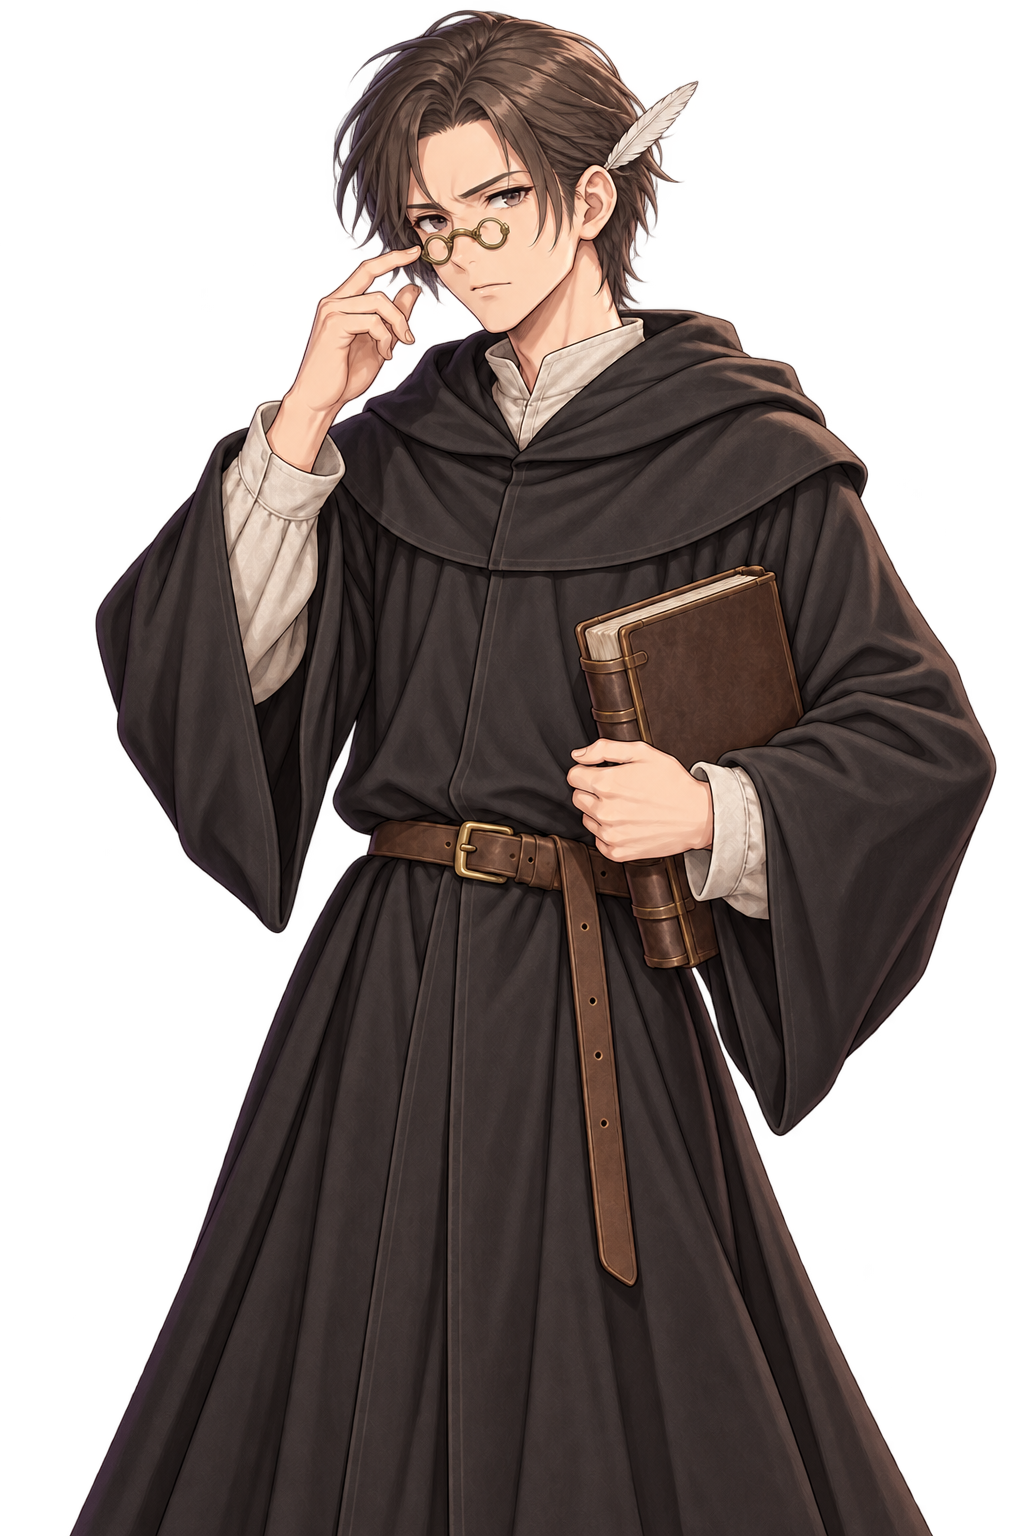
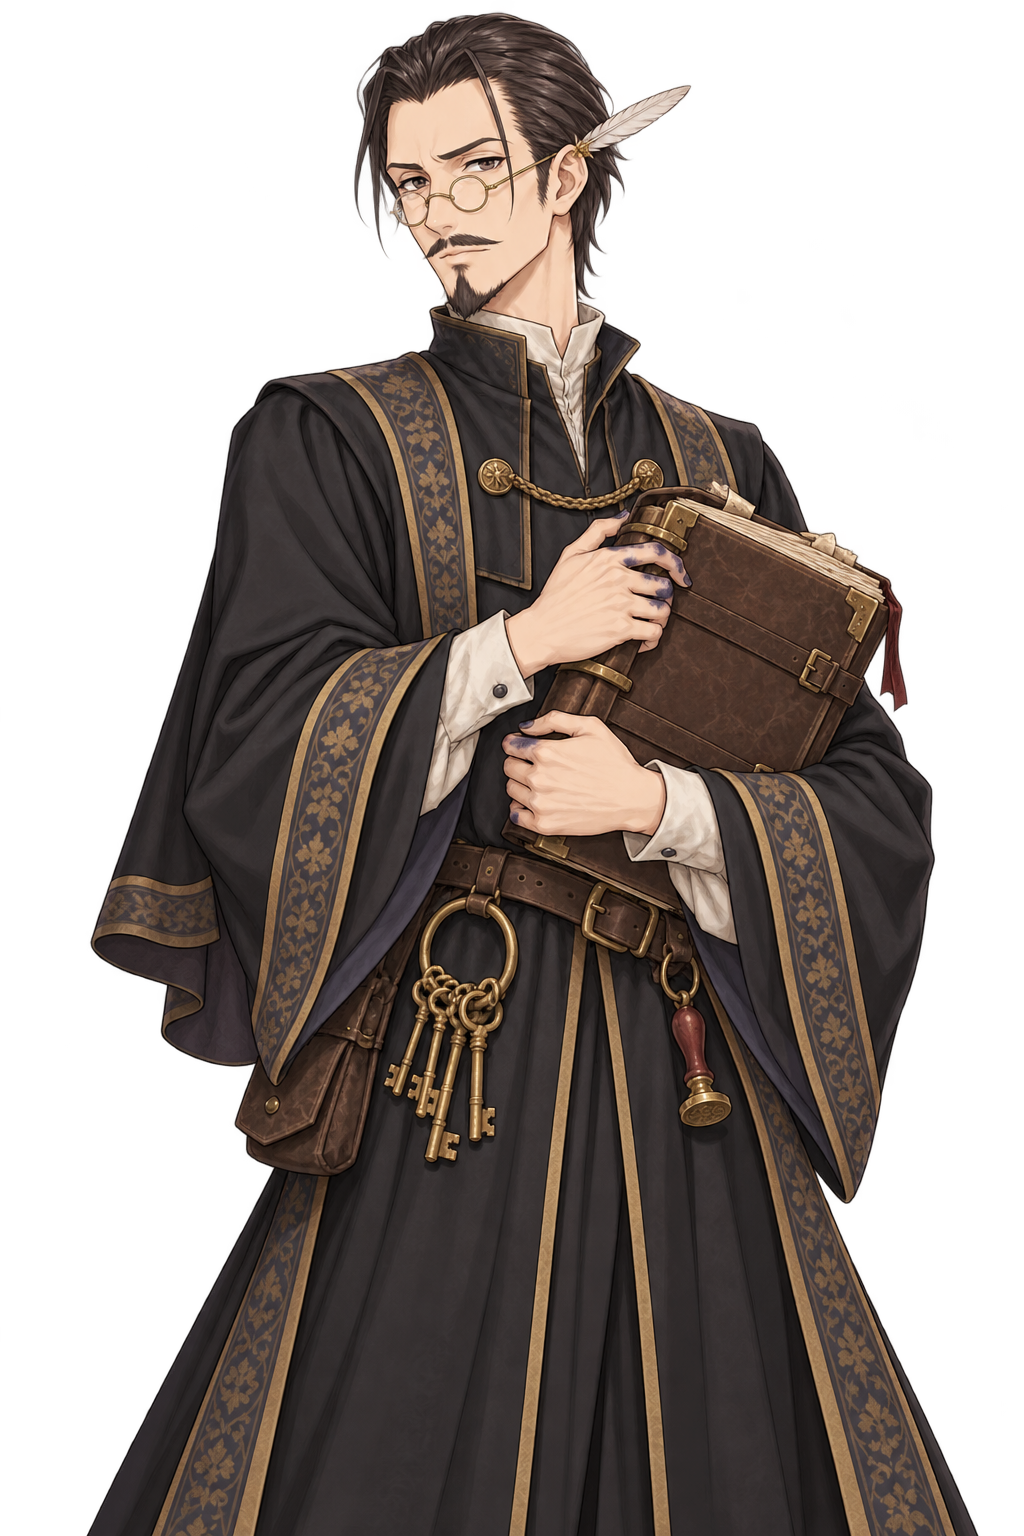
Art: S17 NPCs approved (distinctive redesign)

diff --git a/art/steps/S17.md b/art/steps/S17.md
@@ -63,3 +63,6 @@
 - 직업이 보이는 **소품과 자세**: 마르타는 허리에 손 얹고 국자, 두건. 바실은 장부를 끌어안고 열쇠 꾸러미·인장. 농부는 쇠스랑. 마을 여인은 달걀 바구니
 - 미형은 유지 (우호 NPC 규칙). 개성 있는 매력
 - 원래 참조로 쓰던 리나 스탠딩은 크기·구도 참조로만, 얼굴은 따라 하지 않는다
+
+2026-10-16 · 재작업3 완료: 8장 전부 built-in image_gen 이미지별 1회. 이전 NPC 시안은 참조하지 않고 리나 승인본은 선·채색·캔버스·인물 크기 기준으로만 사용. N01/N02 positive·negative는 각각 새 neutral에서 얼굴만 편집 후 얼굴 마스크 합성(3.1.4). raw N01/N02 v4, N07/N08 v2 보존. 최종 1024×1536 투명 PNG와 전체 prompt.txt 저장, manifest extra·refs 갱신 및 8장 generated. 자체 그림 검수·비교 시트·QA 스크립트 없음. S17 검토 대기에서 중단.
+2026-10-16 · 재작업3 8장 승인. **S17 전체 승인.**
